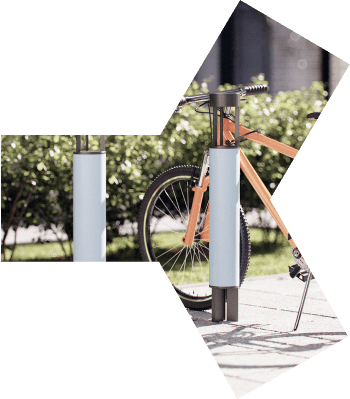
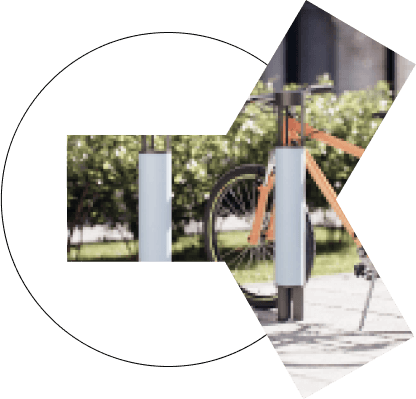
fix img complex
Правка по картинкам для возможности редактирования

diff --git a/css/styles.css b/css/styles.css
@@ -397,13 +397,14 @@ header {position:fixed; left:0; top:0; right:0; height:110px; background:#fff; z
     .axyforma-clients-item {width:120px}
 }
 
-.main-complex {margin:79px 0 339px 0}
+.main-complex {margin:79px 0 120px 0}
 .main-complex-title {font:300 italic 50px/50px RoyalTheatreSans, sans-serif; color:#121212; max-width:635px}
-.main-complex-content {margin:76px 0 0 0; padding:0 0 0 285px; position:relative}
+.main-complex-content {margin:76px 0 0 0; position:relative}
 .main-complex-content::before {content:""; display:block; width:190px; height:1px; position:absolute; left:0; top:22px; background:#000}
 .main-complex-content::after {content:""; display:block; clear:both}
-.main-complex-col {float:left; width:350px; position:relative}
-.main-complex-col+.main-complex-col {float:right; margin:217px 0 0 0}
+.main-complex-col {float:left; width:285px; padding:78px 95px 0 0}
+.main-complex-col+.main-complex-col {width:350px; padding:0}
+.main-complex-col+.main-complex-col+.main-complex-col {float:right; margin:-206px 0 0 0}
 .main-complex-col h4 {margin-top:0}
 .main-complex-col > *:first-child {margin-top:0}
 .main-complex-col > *:last-child {margin-bottom:0}
@@ -413,41 +414,37 @@ header {position:fixed; left:0; top:0; right:0; height:110px; background:#fff; z
     .main-complex-title {font-size:30px; line-height:30px}
     .main-complex-content {margin:33px 0 0 0; padding:0 0 0 187px}
     .main-complex-content::before {width:161px; top:19px}
-    .main-complex-col {width:50%; padding:0 12.5px 0 0}
-    .main-complex-col+.main-complex-col {margin:293px 0 0 0; padding:0 0 0 12.5px}
+    .main-complex-col:first-child {display:none}
+    .main-complex-col+.main-complex-col {width:50%; padding:0 12.5px 0 0}
+    .main-complex-col+.main-complex-col+.main-complex-col {margin:0; padding:0 0 0 12.5px}
 }
 
 @media (max-width:767px) {
     .main-complex {margin:45px 0 74px 0}
     .main-complex-content {margin:46px 0 0 0; padding:26px 0 0 0}
     .main-complex-content::before {width:100%; top:0}
-    .main-complex-col {float:none; width:auto; padding:0}
-    .main-complex-col+.main-complex-col {float:none; margin:76px 0 0 0; padding:0}
+    .main-complex-col+.main-complex-col {float:none; width:auto; padding:0}
+    .main-complex-col+.main-complex-col+.main-complex-col {float:none; margin:76px 0 0 0; padding:0}
 }
 
-.main-complex-col-photo-1 {position:absolute; left:0; top:152px; width:190px; line-height:0}
-.main-complex-col-photo-1::before {content:""; display:block; position:absolute; left:-170px; top:-94px; width:300px; height:322px; background:url(../images/main-complex-photo-1.svg) no-repeat}
-.main-complex-col-photo-1 img {display:block; position:relative}
-.main-complex-col-photo-2 {position:absolute; left:0; bottom:-441px; width:349px; line-height:0}
-.main-complex-col-photo-2::before {content:""; display:block; position:absolute; left:-66px; top:32px; width:336px; height:335px; background:url(../images/main-complex-photo-2.svg) no-repeat}
-.main-complex-col-photo-2 img {display:block; position:relative}
-.main-complex-col-photo-3 {position:absolute; left:0; top:-423px; width:351px; line-height:0}
-.main-complex-col-photo-3::before {content:""; display:block; position:absolute; left:0; top:0; width:351px; height:350px; background:url(../images/main-complex-photo-3.svg) no-repeat}
-.main-complex-col-photo-3 img {display:block; position:relative; border-radius:50%}
+.main-complex-col-photo-1 {margin:0 0 0 -143px; line-height:0}
+.main-complex-col-photo-1 img {display:block; width:100%}
+.main-complex-col-photo-2 {margin:42px 0 0 -66px; line-height:0}
+.main-complex-col-photo-2 img {display:block; width:100%}
+.main-complex-col-photo-2-mobile {display:none}
+.main-complex-col-photo-3 {margin:0 0 73px 0; line-height:0}
+.main-complex-col-photo-3 img {display:block; width:100%}
 
 @media (max-width:1149px) {
-    .main-complex-col-photo-1 {display:none}
-    .main-complex-col-photo-2 {left:40px; bottom:-267px; width:214px}
-    .main-complex-col-photo-2::before {left:-40px; top:20px; width:205px; height:205px; background-size:100% 100%}
-    .main-complex-col-photo-3 {left:12.5px; top:-278px; width:254px}
-    .main-complex-col-photo-3::before {width:254px; height:254px; background-size:100% 100%}
+    .main-complex-col-photo-2 {margin:25px 12.5px 0 0}
+    .main-complex-col-photo-3 {margin:0 12.5px 25px 0}
 }
 
 @media (max-width:767px) {
-    .main-complex-col-photo-2 {position:relative; left:52px; bottom:auto; width:270px; margin:0 0 12px 0}
-    .main-complex-col-photo-2::before {left:-51px; top:25px; width:260px; height:260px}
-    .main-complex-col-photo-3 {position:relative; left:auto; top:auto; width:322px; margin:0 0 44px 0}
-    .main-complex-col-photo-3::before {width:322px; height:322px}
+    .main-complex-col-photo-2 {display:none}
+    .main-complex-col-photo-2-mobile {display:block; margin:0 0 12px 0; line-height:0}
+    .main-complex-col-photo-2-mobile img {display:block; width:100%}
+    .main-complex-col-photo-3 {margin:0 0 44px 0}
 }
 
 .main-production-photo {line-height:0; position:relative}
@@ -458,7 +455,7 @@ header {position:fixed; left:0; top:0; right:0; height:110px; background:#fff; z
 .main-production-content::before {content:""; display:block; width:190px; height:1px; position:absolute; left:0; top:22px; background:#000}
 .main-production-content::after {content:""; display:block; clear:both}
 .main-production-col {float:left; width:350px; position:relative}
-.main-production-col+.main-production-col {float:right; margin:213px 0 0 0}
+.main-production-col+.main-production-col {float:right; margin:-160px 0 0 0}
 .main-production-col h4 {margin-top:0}
 .main-production-col > *:first-child {margin-top:0}
 .main-production-col > *:last-child {margin-bottom:0}
@@ -469,7 +466,7 @@ header {position:fixed; left:0; top:0; right:0; height:110px; background:#fff; z
     .main-production-content {margin:31px 0 0 0; padding:0 0 0 186px}
     .main-production-content::before {width:161px; top:15px}
     .main-production-col {width:50%; padding:0 12.5px 0 0}
-    .main-production-col+.main-production-col {margin:268px 0 0 0; padding:0 0 0 12.5px}
+    .main-production-col+.main-production-col {margin:0; padding:0 0 0 12.5px}
 }
 
 @media (max-width:767px) {
@@ -479,31 +476,30 @@ header {position:fixed; left:0; top:0; right:0; height:110px; background:#fff; z
     .main-production-content {margin:33px 0 0 0; padding:50px 0 0 0}
     .main-production-content::before {width:100%; top:0}
     .main-production-col {float:none; width:auto; padding:0 115px 0 0}
+    .main-production-col::after {content:""; display:block; clear:both}
     .main-production-col+.main-production-col {margin:39px 0 0 0; padding:0 0 0 115px}
 }
 
-.main-production-col-photo-1 {position:absolute; left:0; bottom:-355px; width:381px; line-height:0}
-.main-production-col-photo-1::before {content:""; display:block; position:absolute; left:-65px; top:14px; width:397px; height:383px; background:url(../images/main-production-photo-1.svg) no-repeat}
-.main-production-col-photo-1 img {display:block; position:relative}
-.main-production-col-photo-2 {position:absolute; left:0; top:-344px; width:196px; line-height:0}
-.main-production-col-photo-2::before {content:""; display:block; position:absolute; left:-38px; top:-24px; width:351px; height:334px; background:url(../images/main-production-photo-2.svg) no-repeat}
-.main-production-col-photo-2 img {display:block; position:relative}
+.main-production-col-photo-1 {margin:42px 0 0 0; line-height:0}
+.main-production-col-photo-1 img {display:block; width:100%}
+.main-production-col-photo-1-mobile {display:none}
+.main-production-col-photo-2 {margin:0 38px 42px -38px; line-height:0}
+.main-production-col-photo-2 img {display:block; width:100%}
 
 @media (max-width:1149px) {
-    .main-production-col-photo-1 {left:32px; bottom:-240px; width:240px}
-    .main-production-col-photo-1::before {left:-56px; top:-11px; width:283px; height:273px; background-size:100% 100%}
-    .main-production-col-photo-2 {left:29px; top:-240px; width:140px}
-    .main-production-col-photo-2::before {left:-27px; top:-17px; width:252px; height:240px; background-size:100% 100%}
+    .main-production-col-photo-1 {margin:25px 12.5px 0 0}
+    .main-production-col-photo-2 {margin:0 12.5px 25px 0}
 }
 
 @media (max-width:767px) {
-    .main-production-col-photo-1 {left:auto; right:-68px; bottom:auto; top:-19px; width:144px}
-    .main-production-col-photo-1::before {left:-31px; top:0px; width:163px; height:154px; background-size:100% 100%}
-    .main-production-col-photo-2 {left:-22px; top:-13px; width:74px}
-    .main-production-col-photo-2::before {left:-14px; top:-9px; width:132px; height:126px}
+    .main-production-col-photo-1 {display:none}
+    .main-production-col-photo-1-mobile {display:block; float:right; margin:-19px -183px 0 0; width:144px; line-height:0}
+    .main-production-col-photo-1-mobile img {display:block; width:100%}
+    .main-production-col-photo-2 {float:left; margin:0 0 0 -147px; width:132px}
+    .main-production-col-photo-2 img {margin-top:-22px}
 }
 
-.main-lines {position:relative; margin:184px 0 0 0}
+.main-lines {position:relative; margin:80px 0 0 0}
 .main-lines::before {content:""; display:block; width:190px; height:1px; position:absolute; left:0; top:14px; background:#000}
 
 @media (max-width:1149px) {

diff --git a/about.html b/about.html
@@ -111,14 +111,17 @@
                 <div class="main-complex">
                     <div class="main-complex-title">Комплексные<br /> системы благоустройства городской среды</div>
                     <div class="main-complex-content">
-                        <div class="main-complex-col-photo-1"><img src="files/main-complex-photo-1.png" alt="" /></div>
                         <div class="main-complex-col">
-                            <div class="main-complex-col-photo-2"><img src="files/main-complex-photo-2.png" alt="" /></div>
-                            <h4>На улице,<br /> как у себя дома</h4>
-                            <p>Depending on the time, weather and season, the sun radiates various types of light. Even after the sun goes down, we see its light reflected as moonlight, starlight, a reflection on the water’s surface or a gentle glow on a snow-capped mountain. Our aim is not to imitate these natural phenomena with artificial light. Rather, we approach light like an ingredient in a painting</p>
+                            <div class="main-complex-col-photo-1"><img src="files/main-complex-photo-1.png" srcset="files/main-complex-photo-1-2x.png 2x" alt="" /></div>
                         </div>
                         <div class="main-complex-col">
-                            <div class="main-complex-col-photo-3"><img src="files/main-complex-photo-3.png" alt="" /></div>
+                            <div class="main-complex-col-photo-2-mobile"><img src="files/main-complex-photo-2.png" srcset="files/main-complex-photo-2-2x.png 2x" alt="" /></div>
+                            <h4>На улице,<br /> как у себя дома</h4>
+                            <p>Depending on the time, weather and season, the sun radiates various types of light. Even after the sun goes down, we see its light reflected as moonlight, starlight, a reflection on the water’s surface or a gentle glow on a snow-capped mountain. Our aim is not to imitate these natural phenomena with artificial light. Rather, we approach light like an ingredient in a painting</p>
+                            <div class="main-complex-col-photo-2"><img src="files/main-complex-photo-2.png" srcset="files/main-complex-photo-2-2x.png 2x" alt="" /></div>
+                        </div>
+                        <div class="main-complex-col">
+                            <div class="main-complex-col-photo-3"><img src="files/main-complex-photo-3.png" srcset="files/main-complex-photo-3-2x.png 2x" alt="" /></div>
                             <h4>Дизайн<br /> и надежность</h4>
                             <p>Our mission is to support designers in creating subtly layered public spaces that are neutral, simple and authentic in form and function.</p>
                             <p>Timeless and integrative spaces that are shared spaces in the truest sense: where behaviour isn’t watched, dictated or manipulated, where people don’t have to follow the herd but can be themselves</p>
@@ -205,12 +208,13 @@
                     <div class="main-production-anonce">Внедряем эстетические и&nbsp;функциональные решения</div>
                     <div class="main-production-content">
                         <div class="main-production-col">
-                            <div class="main-production-col-photo-1"><img src="files/main-production-photo-1.png" alt="" /></div>
+                            <div class="main-production-col-photo-1-mobile"><img src="files/main-production-photo-1.png" srcset="files/main-production-photo-1-2x.png 2x" alt="" /></div>
                             <h4>Современный дизайн</h4>
                             <p>Depending on the time, weather and season, the sun radiates various types of light.</p>
+                            <div class="main-production-col-photo-1"><img src="files/main-production-photo-1.png" srcset="files/main-production-photo-1-2x.png 2x" alt="" /></div>
                         </div>
                         <div class="main-production-col">
-                            <div class="main-production-col-photo-2"><img src="files/main-production-photo-2.png" alt="" /></div>
+                            <div class="main-production-col-photo-2"><img src="files/main-production-photo-2.png" srcset="files/main-production-photo-2-2x.png 2x" alt="" /></div>
                             <h4>Качественные материалы</h4>
                             <p>Our mission is to support designers in creating subtly layered public spaces that are neutral, simple and authentic in form and function.</p>
                         </div>

diff --git a/main.html b/main.html
@@ -153,14 +153,17 @@
                 <div class="main-complex">
                     <div class="main-complex-title">Комплексные<br /> системы благоустройства городской среды</div>
                     <div class="main-complex-content">
-                        <div class="main-complex-col-photo-1"><img src="files/main-complex-photo-1.png" alt="" /></div>
                         <div class="main-complex-col">
-                            <div class="main-complex-col-photo-2"><img src="files/main-complex-photo-2.png" alt="" /></div>
-                            <h4>На улице,<br /> как у себя дома</h4>
-                            <p>Depending on the time, weather and season, the sun radiates various types of light. Even after the sun goes down, we see its light reflected as moonlight, starlight, a reflection on the water’s surface or a gentle glow on a snow-capped mountain. Our aim is not to imitate these natural phenomena with artificial light. Rather, we approach light like an ingredient in a painting</p>
+                            <div class="main-complex-col-photo-1"><img src="files/main-complex-photo-1.png" srcset="files/main-complex-photo-1-2x.png 2x" alt="" /></div>
                         </div>
                         <div class="main-complex-col">
-                            <div class="main-complex-col-photo-3"><img src="files/main-complex-photo-3.png" alt="" /></div>
+                            <div class="main-complex-col-photo-2-mobile"><img src="files/main-complex-photo-2.png" srcset="files/main-complex-photo-2-2x.png 2x" alt="" /></div>
+                            <h4>На улице,<br /> как у себя дома</h4>
+                            <p>Depending on the time, weather and season, the sun radiates various types of light. Even after the sun goes down, we see its light reflected as moonlight, starlight, a reflection on the water’s surface or a gentle glow on a snow-capped mountain. Our aim is not to imitate these natural phenomena with artificial light. Rather, we approach light like an ingredient in a painting</p>
+                            <div class="main-complex-col-photo-2"><img src="files/main-complex-photo-2.png" srcset="files/main-complex-photo-2-2x.png 2x" alt="" /></div>
+                        </div>
+                        <div class="main-complex-col">
+                            <div class="main-complex-col-photo-3"><img src="files/main-complex-photo-3.png" srcset="files/main-complex-photo-3-2x.png 2x" alt="" /></div>
                             <h4>Дизайн<br /> и надежность</h4>
                             <p>Our mission is to support designers in creating subtly layered public spaces that are neutral, simple and authentic in form and function.</p>
                             <p>Timeless and integrative spaces that are shared spaces in the truest sense: where behaviour isn’t watched, dictated or manipulated, where people don’t have to follow the herd but can be themselves</p>
@@ -175,12 +178,13 @@
                     <div class="main-production-anonce">Внедряем эстетические и&nbsp;функциональные решения</div>
                     <div class="main-production-content">
                         <div class="main-production-col">
-                            <div class="main-production-col-photo-1"><img src="files/main-production-photo-1.png" alt="" /></div>
+                            <div class="main-production-col-photo-1-mobile"><img src="files/main-production-photo-1.png" srcset="files/main-production-photo-1-2x.png 2x" alt="" /></div>
                             <h4>Современный дизайн</h4>
                             <p>Depending on the time, weather and season, the sun radiates various types of light.</p>
+                            <div class="main-production-col-photo-1"><img src="files/main-production-photo-1.png" srcset="files/main-production-photo-1-2x.png 2x" alt="" /></div>
                         </div>
                         <div class="main-production-col">
-                            <div class="main-production-col-photo-2"><img src="files/main-production-photo-2.png" alt="" /></div>
+                            <div class="main-production-col-photo-2"><img src="files/main-production-photo-2.png" srcset="files/main-production-photo-2-2x.png 2x" alt="" /></div>
                             <h4>Качественные материалы</h4>
                             <p>Our mission is to support designers in creating subtly layered public spaces that are neutral, simple and authentic in form and function.</p>
                         </div>

diff --git a/line.html b/line.html
@@ -306,7 +306,7 @@
                             <div class="main-projects-item">
                                 <a href="files/line-environment.jpg" data-fancybox>
                                     <div class="main-projects-item-photo">
-                                        <div class="main-projects-item-photo-inner" style="background-image:url(files/line-environment.jpg)"></div>
+                                        <div class="main-projects-item-photo-inner" style="background-color:#d4d5f6; background-image:url(files/line-environment.jpg)"></div>
                                     </div>
                                     <h4>Название изображения / рендера</h4>
                                     <div class="line-environment-text">Our aim is not to imitate these natural phenomena with artificial light. Rather, we approach light like an ingredient in a painting</div>
